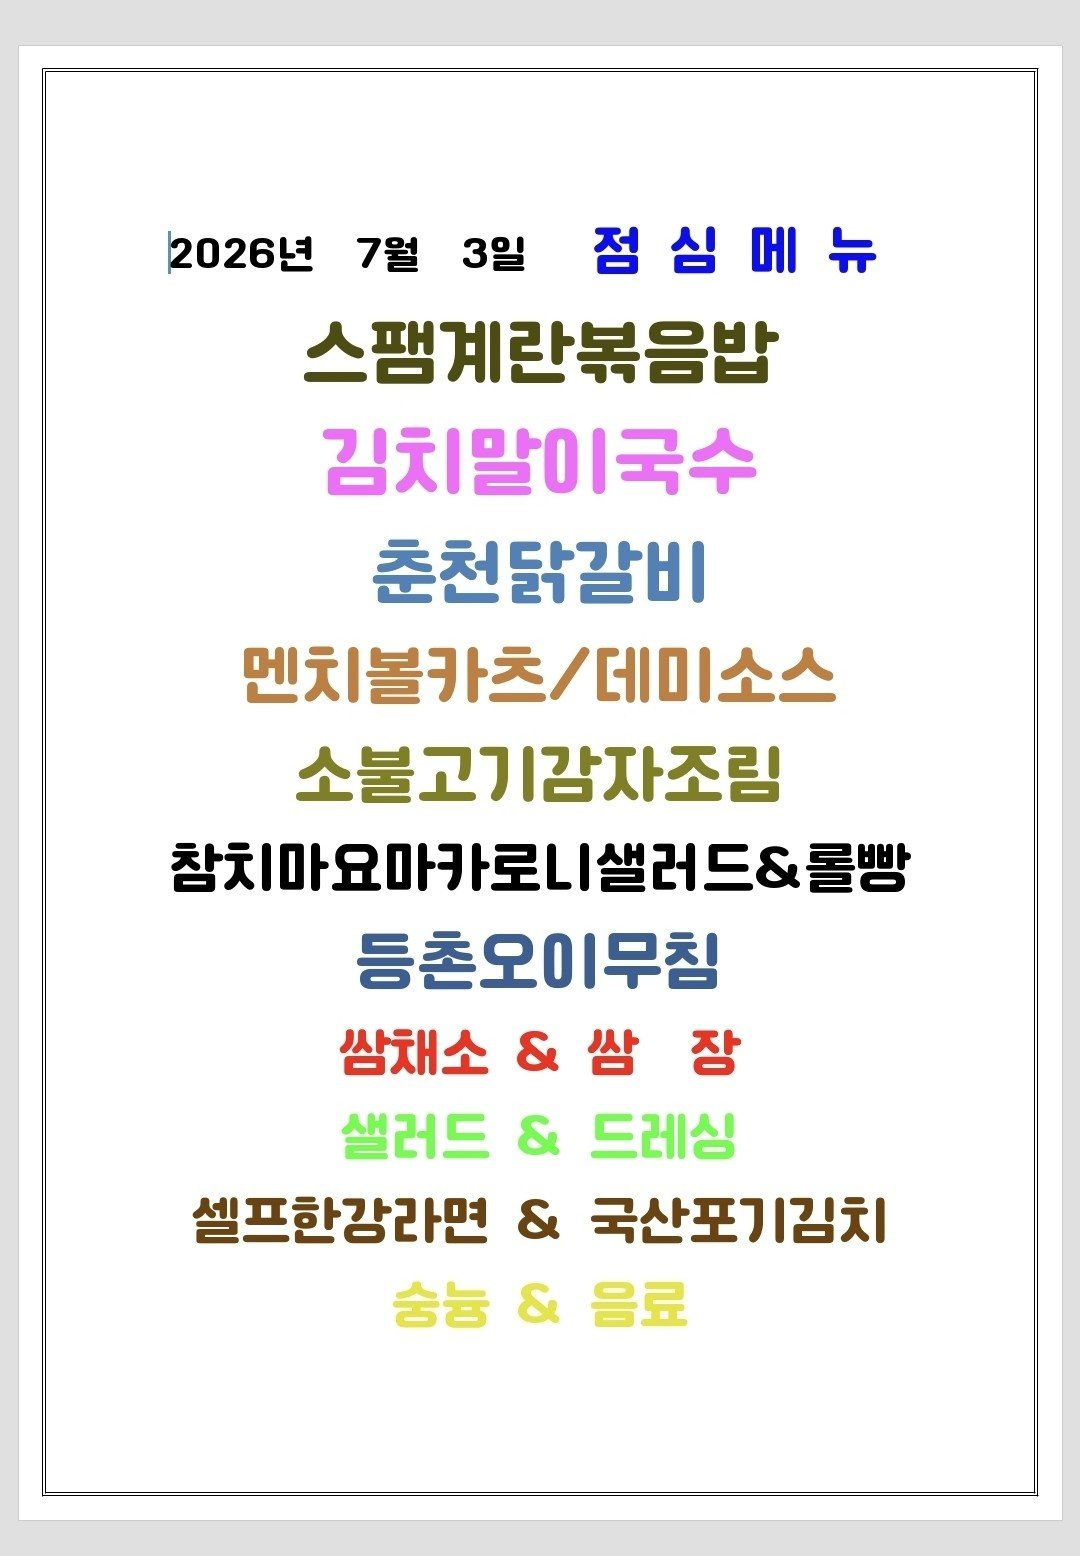
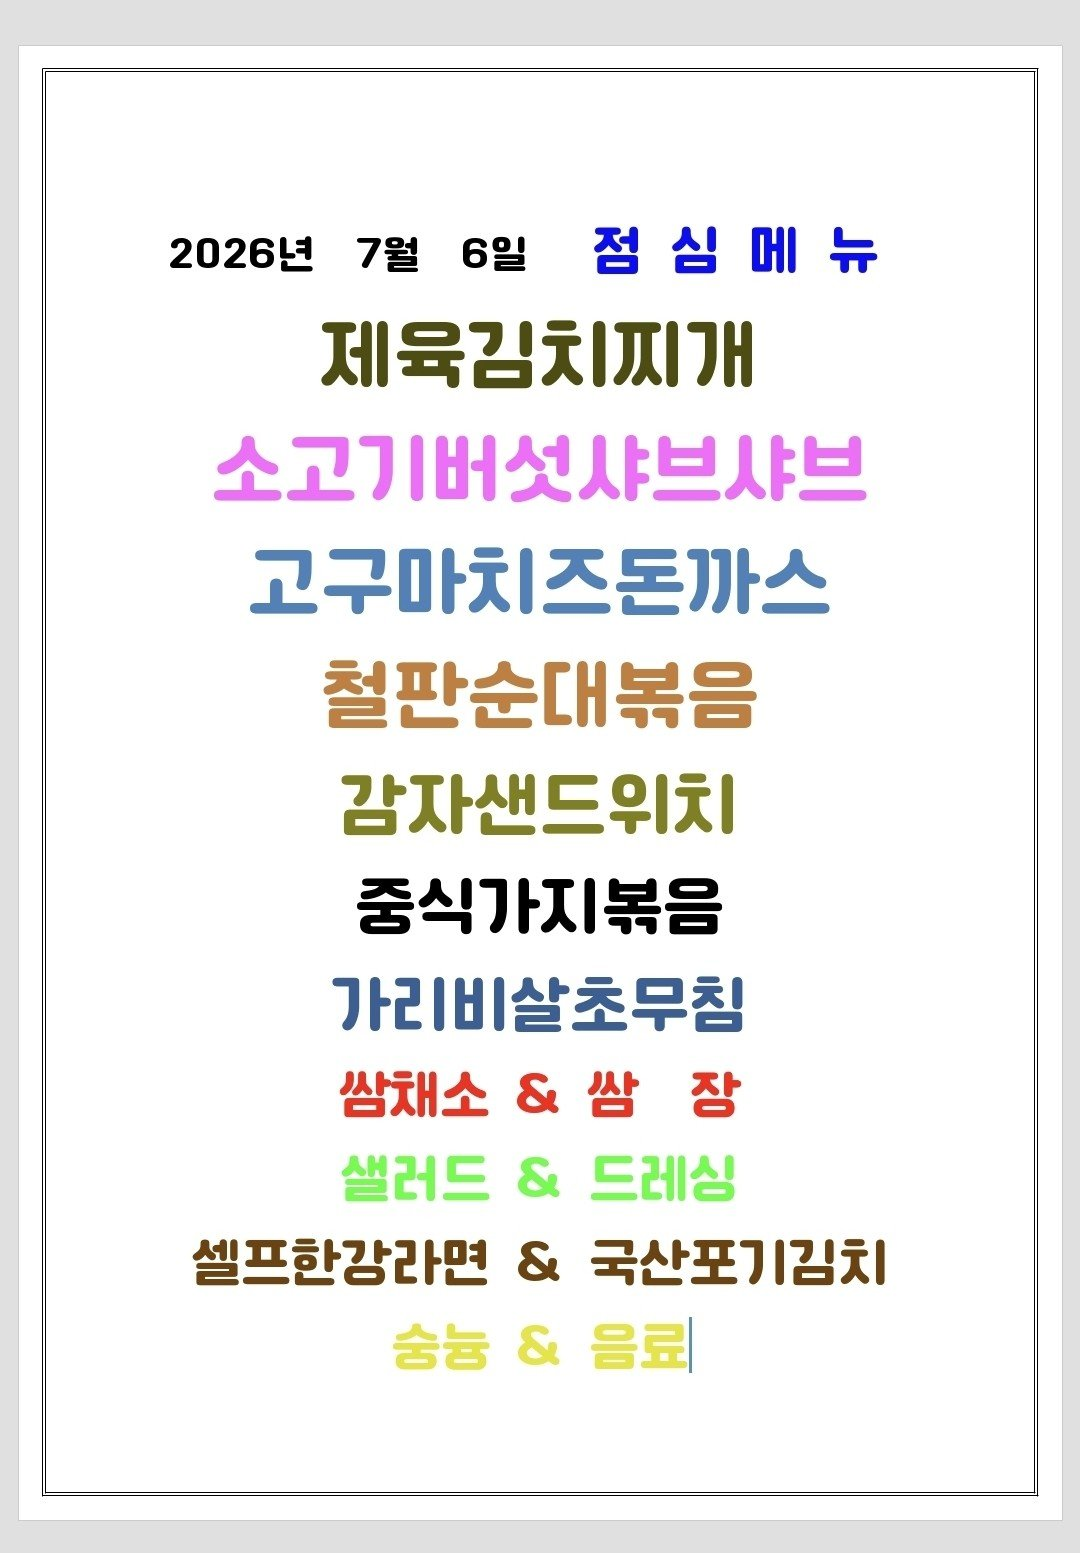
Update menu board assets

diff --git a/menu-today/index.html b/menu-today/index.html
@@ -209,7 +209,7 @@
 
     <section class="meta-bar">
       <div class="meta-card"><div class="meta-label">기준 날짜</div><div class="meta-value">2026년 7월 6일 월요일</div></div>
-      <div class="meta-card"><div class="meta-label">최종 가져온 시간</div><div class="meta-value">2026-07-06 10:18:10</div></div>
+      <div class="meta-card"><div class="meta-label">최종 가져온 시간</div><div class="meta-value">2026-07-06 10:33:32</div></div>
       <div class="meta-card"><div class="meta-label">확인 완료</div><div class="meta-value">9개 식당</div></div>
       <div class="meta-card"><div class="meta-label">준비중</div><div class="meta-value">3개 채널</div></div>
     </section>
@@ -265,7 +265,7 @@
             <div class="sub">가산비즈니스센터</div>
           </div>
         </div>
-        <div class="menu-inline-image"><img src="./images/raonfood.png" alt="구내식당라온푸드 식단 이미지"></div><div class="info-note">오늘 메뉴 미수집 상태입니다.</div>
+        <div class="menu-inline-image"><img src="./images/raonfood.png" alt="구내식당라온푸드 식단 이미지"></div><ul><li>제육김지찌개</li><li>소고 )버섯샤브샤브</li><li>고구마지즈돈까스</li><li>절판순대볶음</li><li>가리비살초무침</li><li>쌈채소 &amp; 쌈 잠</li><li>샐러드 &amp; 드레싱</li><li>절심베듀</li><li>철판순</li><li>대복을</li><li>가리비</li></ul>
       </article>
 
       <article class="restaurant-card">
@@ -295,7 +295,7 @@
             <div class="sub">에이스테크노타워10차</div>
           </div>
         </div>
-        <div class="menu-inline-image"><img src="./images/thefoodsketch.png" alt="더푸드스케치 식단 이미지"></div><ul><li>어묵탕</li><li>직화불고기</li><li>두부구이 / 양념장</li><li>아비꼬카레</li><li>콩나물무침</li><li>가든샐러드 &amp; 드레싱</li><li>배추겉절이 / 음료</li><li>후라이드치킨 / 청양마요</li></ul>
+        <div class="menu-inline-image"><img src="./images/thefoodsketch.png" alt="더푸드스케치 식단 이미지"></div><ul><li>어묵탕</li><li>직화불고기</li><li>두부구이 / 양념장</li><li>아비꼬카레</li><li>콩나물무침</li><li>가든샐러드 / 드레싱</li><li>배추겉절이 / 음료</li><li>후라이드치킨 / 청양마요</li></ul>
       </article>
 
       <article class="restaurant-card">

diff --git a/guro-menu/index.html b/guro-menu/index.html
@@ -32,7 +32,7 @@
   </header>
   <section class="meta">
     <div><small>기준 날짜</small><strong>2026년 7월 6일 월요일</strong></div>
-    <div><small>최종 갱신</small><strong>2026-07-06 10:18:22</strong></div>
+    <div><small>최종 갱신</small><strong>2026-07-06 10:33:43</strong></div>
     <div><small>등록 식당</small><strong>5개</strong></div>
   </section>
   <div class="notice">공개 카카오 채널의 메뉴 이미지를 자동 수집하고 OCR로 정리합니다. 텍스트에 오타가 있을 수 있으니 식단 이미지를 함께 확인해 주세요.</div>
@@ -76,7 +76,7 @@
         </div>
         <img class="menu-image" src="./images/the-eats-food.png" alt="더이츠푸드 식단 이미지" loading="lazy">
         
-        <ul><li>던0 프ㄷ</li><li>쌀밥/흑미잡곡밥</li><li>소고기우거지국</li><li>고추장목살주물럭</li><li>카레우동</li><li>꽂게양념무침</li><li>유자치커리무침</li><li>수제배추겉절이</li><li>그린샐러드&amp;드레싱 Y</li><li>과일 Y</li></ul>
+        <ul><li>2, 2압072</li><li>이 Z2ic</li><li>쌀밥/흑미잡곡밥</li><li>소고기우거지국</li><li>고추장목살주물럭</li><li>카레우동</li><li>꽃게양념무침</li><li>도라지오이무침</li><li>수제배추겉절이</li><li>그린샐러드&amp;드레싱 %</li><li>) 과일 ~</li></ul>
       </article>
 
       <article class="restaurant-card">
